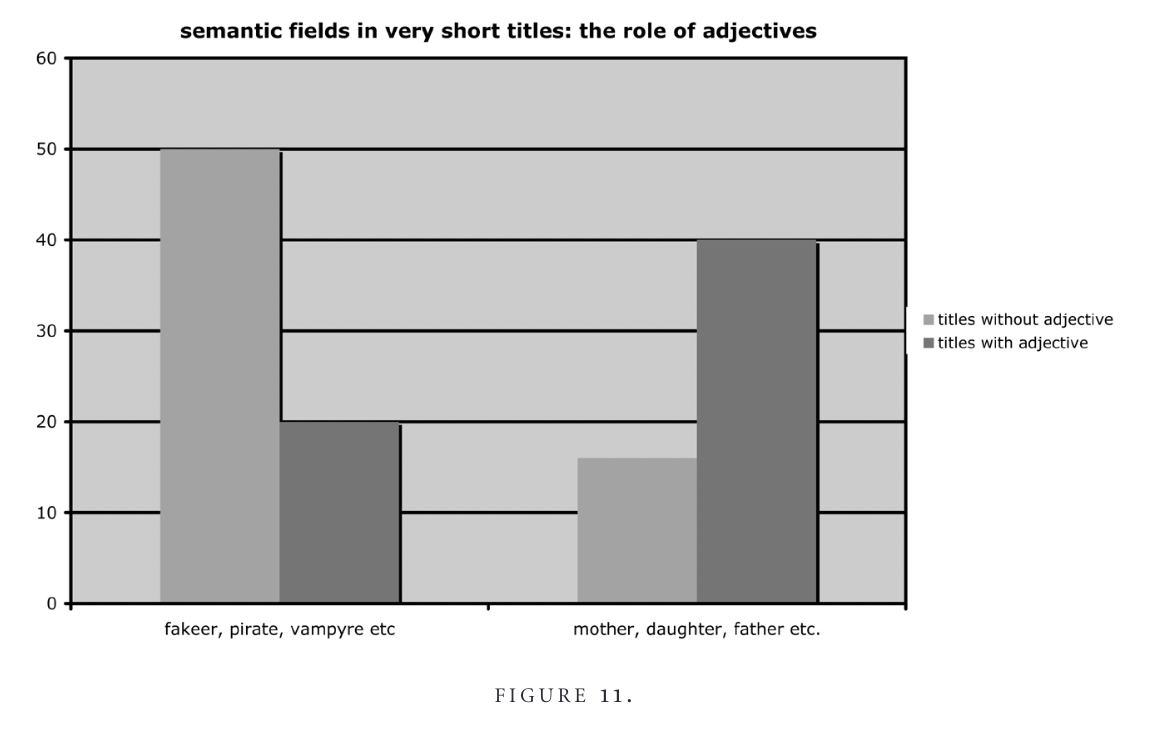
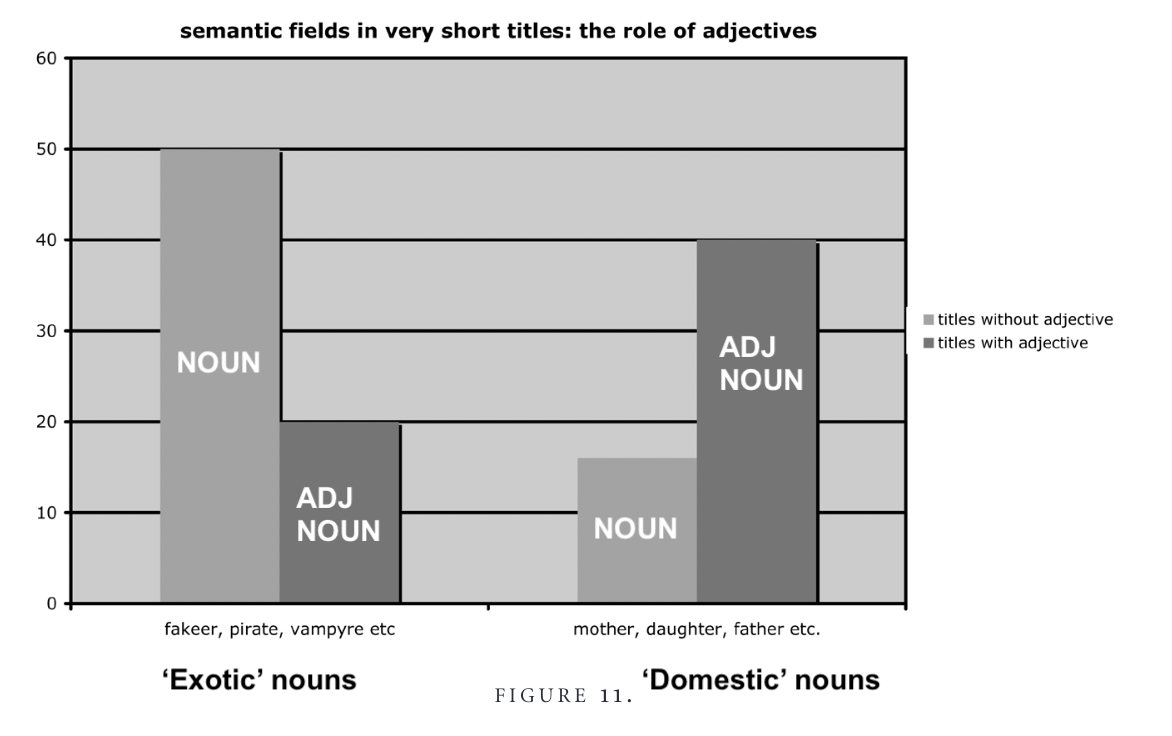
added the explanatory examples slide to pos-tagging

diff --git a/pylitwiss_up/cls_showcases.html b/pylitwiss_up/cls_showcases.html
@@ -126,8 +126,40 @@
 				<h3>POS-tagging</h3>
 				<p>Das <b>[DET]</b> Leiden <b>[NOUN]</b> des <b>[DET]</b> jungen <b>[ADJ]</b> Werthers <b>[PNOUN]</b></p>
 				</section>
+
 				<section>
-				<h3>die Rolle von Adjektiven</h3>
+					<h4>Beispiele für Typen</h4>
+					<table>
+					  <tr>
+					    <th>(DET)+NOUN</th>
+					    <th>(DET)+ADJ+NOUN</th>
+					    <th>PNOUN(+PNOUN)</th>
+					  </tr>
+					  <tr>
+					    <td>The Consolidator</td>
+					    <td>The Female Quixote</td>
+					    <td>Emma</td>
+					  </tr>
+					  <tr>
+					    <td>Patronage</td>
+					    <td>Modern Flirtations</td>
+					    <td>Tristram Shandy</td>
+					  </tr>
+					  
+					  <tr>
+					    <td>The Absentee</td>
+					    <td>Bleak House</td>
+					    <td>Henrietta</td>
+					  </tr>
+					  <tr>
+					    <td>The Wanderer</td>
+					    <td>A Political Romance</td>
+					    <td>Robinson Crusoe</td>
+					  </tr>
+					</table>
+				</section>
+				<section>
+				<h4>NOUN vs ADJ+NOUN: semantischer Unterschied</h4>
 				<img data-src="pics/fig11.png" height="400">
 				</section>
 				<section>
